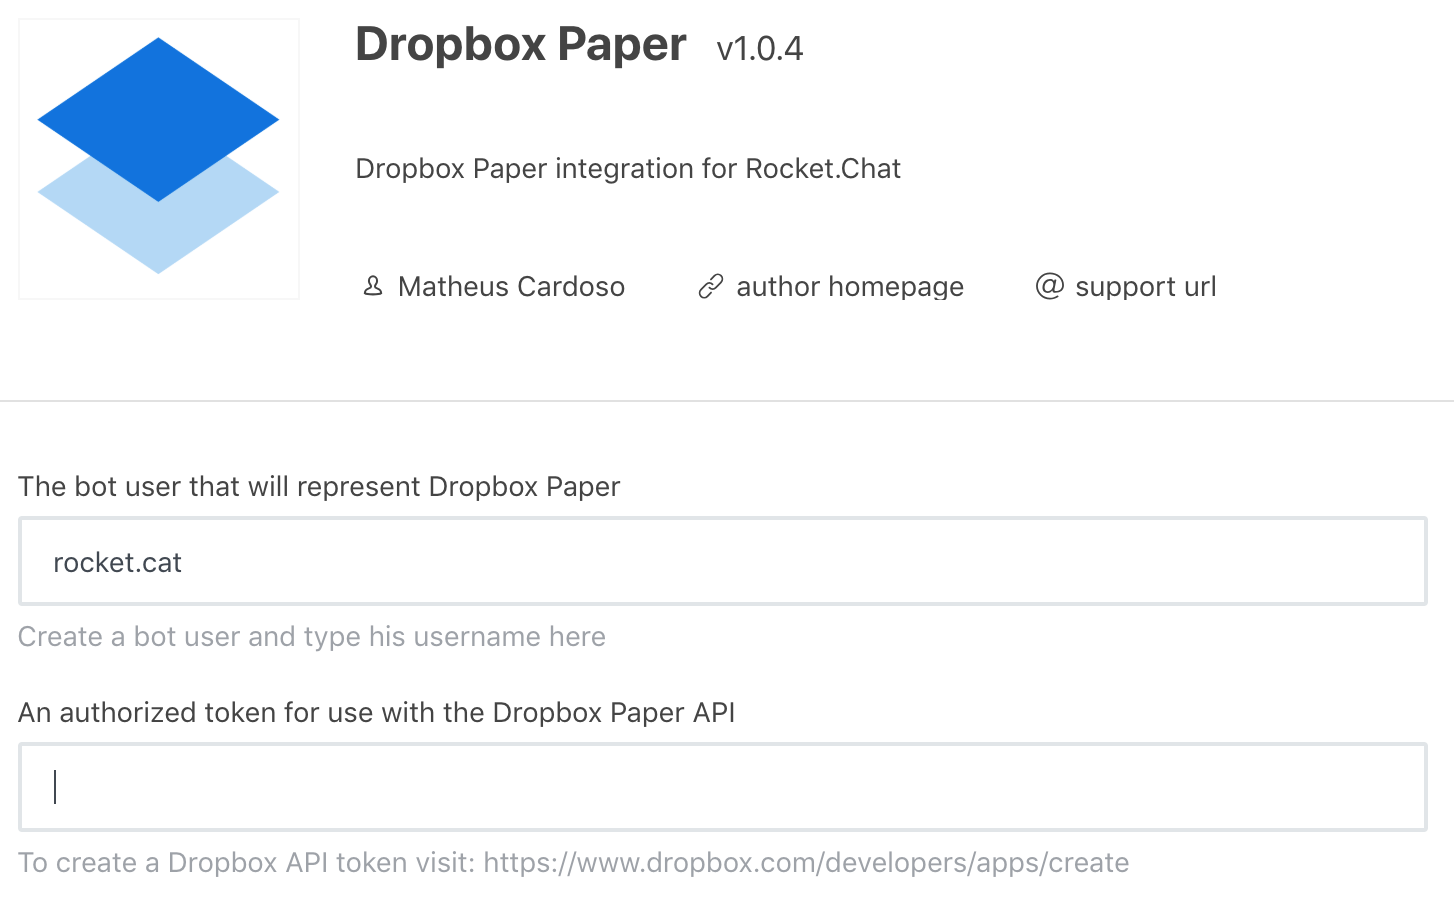
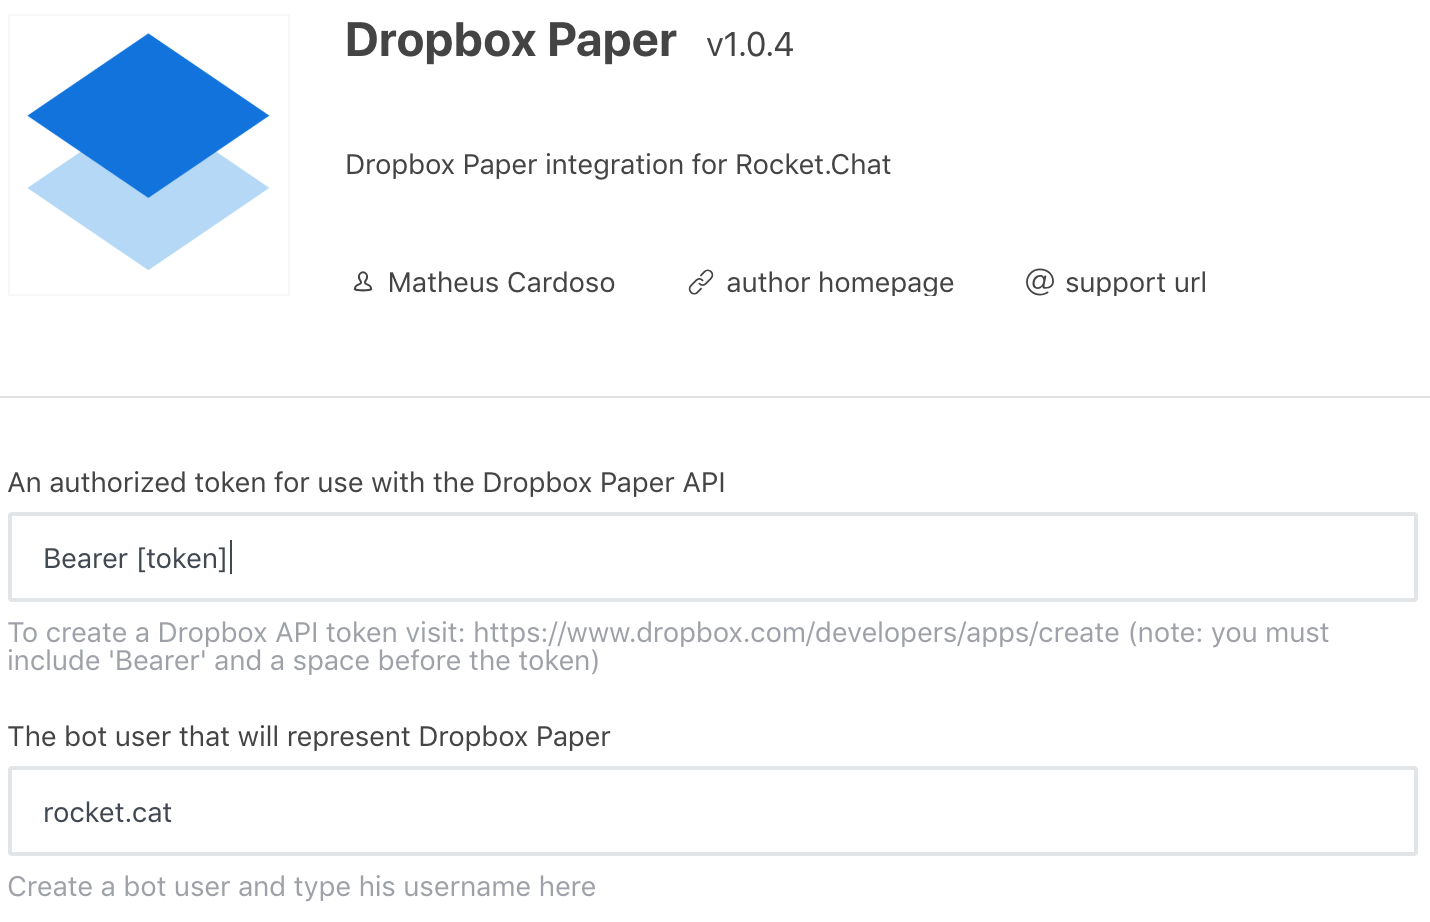
📚 inform about the need to include Bearer in token field

diff --git a/README.md b/README.md
@@ -12,5 +12,5 @@ This will create a new paper and share the secret link with the room.
 
 ![](docs/screenshot_02.png)
 
-### Planned features
+## Planned features
 See the [issues list](https://github.com/cardoso/Rocket.Chat.Dropbox.Paper/issues)
